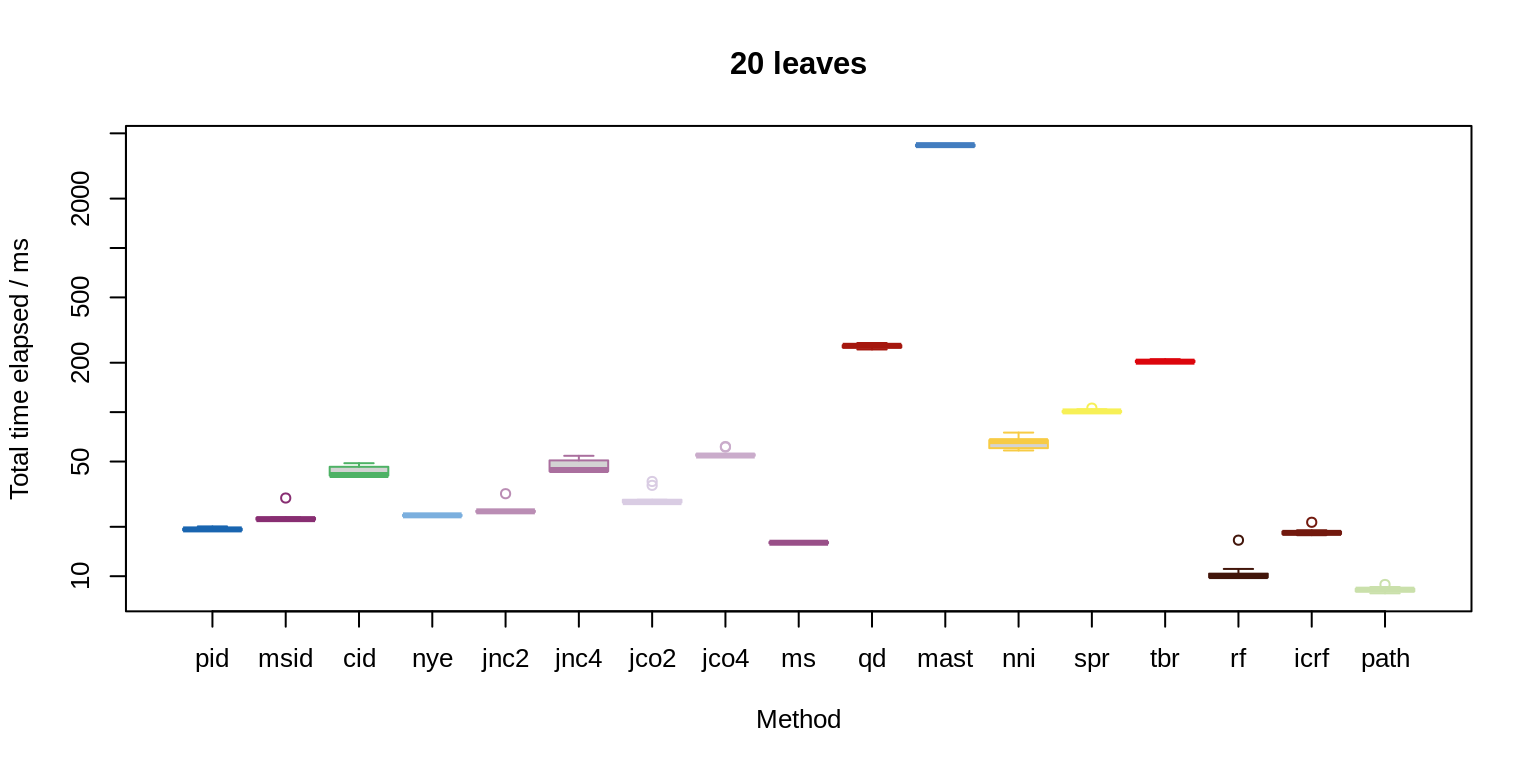
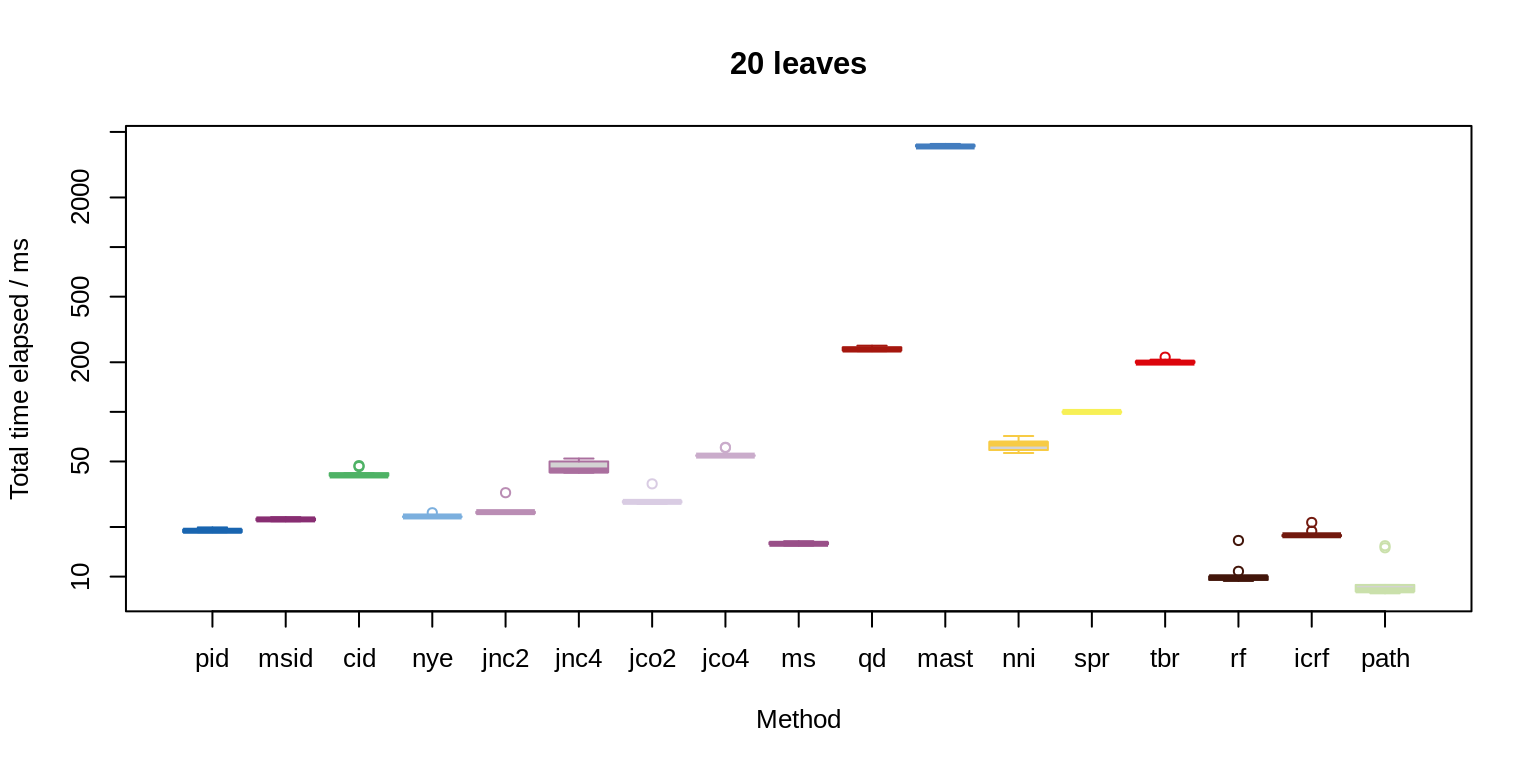
Built site for TreeDistData: 1.0.0@f3f8f6a

diff --git a/index.html b/index.html
@@ -13,8 +13,8 @@
 <!-- clipboard.js --><script src="https://cdnjs.cloudflare.com/ajax/libs/clipboard.js/2.0.6/clipboard.min.js" integrity="sha256-inc5kl9MA1hkeYUt+EC3BhlIgyp/2jDIyBLS6k3UxPI=" crossorigin="anonymous"></script><!-- headroom.js --><script src="https://cdnjs.cloudflare.com/ajax/libs/headroom/0.11.0/headroom.min.js" integrity="sha256-AsUX4SJE1+yuDu5+mAVzJbuYNPHj/WroHuZ8Ir/CkE0=" crossorigin="anonymous"></script><script src="https://cdnjs.cloudflare.com/ajax/libs/headroom/0.11.0/jQuery.headroom.min.js" integrity="sha256-ZX/yNShbjqsohH1k95liqY9Gd8uOiE1S4vZc+9KQ1K4=" crossorigin="anonymous"></script><!-- pkgdown --><link href="pkgdown.css" rel="stylesheet">
 <script src="pkgdown.js"></script><meta property="og:title" content="Analysis of Phylogenetic Tree Distance Measures">
 <meta property="og:description" content="Data used to perform analyses of tree distance measures in unrooted
-  phylogenetic trees, underlying tables and figures in Smith (202X)
-  &lt;doi:10.1093/bioinformatics/xxxxx&gt;.">
+  phylogenetic trees, underlying tables and figures in Smith (2020)
+  &lt;doi:10.1093/bioinformatics/btaa614&gt;.">
 <!-- mathjax --><script src="https://cdnjs.cloudflare.com/ajax/libs/mathjax/2.7.5/MathJax.js" integrity="sha256-nvJJv9wWKEm88qvoQl9ekL2J+k/RWIsaSScxxlsrv8k=" crossorigin="anonymous"></script><script src="https://cdnjs.cloudflare.com/ajax/libs/mathjax/2.7.5/config/TeX-AMS-MML_HTMLorMML.js" integrity="sha256-84DKXVJXs0/F8OTMzX4UR909+jtl4G7SPypPavF+GfA=" crossorigin="anonymous"></script><!--[if lt IE 9]>
 <script src="https://oss.maxcdn.com/html5shiv/3.7.3/html5shiv.min.js"></script>
 <script src="https://oss.maxcdn.com/respond/1.4.2/respond.min.js"></script>
@@ -117,13 +117,13 @@
 <div class="page-header"><h1 class="hasAnchor">
 <a href="#treedistdata" class="anchor"></a>TreeDistData</h1></div>
 
-<p>‘<a href="https://ms609.github.io/TreeDistData/">TreeDistData</a>’ is an R package intended to accompany the ‘<a href="https://ms609.github.io/TreeDist/">TreeDist</a>’ package. It contains the functions and scripts used to compare the performance of tree distance measures in Smith (in review).</p>
-<p>“<a href="https://ms609.github.io/TreeDistData/articles/">Articles</a>” lists vignettes detailing the output of analyses corresponding to the stated sections of Smith (in review). Each of these pages includes a link to the R source code, which can be used to reproduce the analytical results.</p>
+<p>‘<a href="https://ms609.github.io/TreeDistData/">TreeDistData</a>’ is an R package intended to accompany the ‘<a href="https://ms609.github.io/TreeDist/">TreeDist</a>’ package. It contains the functions and scripts used to compare the performance of tree distance measures in Smith (2020).</p>
+<p>“<a href="https://ms609.github.io/TreeDistData/articles/">Articles</a>” lists vignettes detailing the output of analyses corresponding to the stated sections of Smith (2020). Each of these pages includes a link to the R source code, which can be used to reproduce the analytical results.</p>
 <p>“<a href="https://ms609.github.io/TreeDistData/reference/">Reference</a>” lists convenience functions, which facilitate calls to ‘TreeDist’, and data objects that store the results of lengthy analyses. The code used to generate these data objects is available in the <a href="https://github.com/ms609/TreeDistData/tree/master/data-raw"><code>data-raw</code></a> directory.</p>
 <div id="references" class="section level2">
 <h2 class="hasAnchor">
 <a href="#references" class="anchor"></a>References</h2>
-<p>Smith, M.R. (2020). Information theoretic Generalized Robinson-Foulds metrics for comparing phylogenetic trees. Bioinformatics, in production.</p>
+<p>Smith, M.R. (2020). <a href="10.1093/bioinformatics/btaa614">Information theoretic Generalized Robinson-Foulds metrics for comparing phylogenetic trees</a>. <em>Bioinformatics</em>, in production.</p>
 </div>
 </div>
   </div>

diff --git a/articles/07-bullseye.html b/articles/07-bullseye.html
@@ -135,8 +135,8 @@
 <div id="tabulation" class="section level2">
 <h2 class="hasAnchor">
 <a href="#tabulation" class="anchor"></a>Tabulation</h2>
-<div id="htmlwidget-bfc3be23c74719aa7364" style="width:100%;height:auto;" class="datatables html-widget"></div>
-<script type="application/json" data-for="htmlwidget-bfc3be23c74719aa7364">{"x":{"filter":"none","data":[["Phylog. Info. Dist","Match. Split Info Dist","Clust. Info. Dist.","Quartet","Nye <i>et al.<\/i>","JRF (k = 2, no conflict)","JRF (k = 4, no conflict)","JRF (k = 2, conflict ok)","JRF (k = 4, conflict ok)","Match. Split Dist.","MAST size","MAST info","NNI (lwr bnd)","NNI (upr bnd)","SPR (approx.)","TBR (lwr bnd)","TBR (upr bnd)","Robinson-Foulds","Info. Corr. RF","Path"],["651","639","650","626","644","642","629","631","635","636","498","498","410","444","406","312","398","410","638","633"],["937","902","941","809","961","965","929","955","931","777","622","622","781","802","613","604","693","781","785","704"],["0.708","0.686","0.714","0.619","0.704","0.711","0.671","0.699","0.669","0.665","0.515","0.515","0.595","0.583","0.329","0.439","0.339","0.595","0.643","0.621"],["0.935","0.913","0.935","0.861","0.936","0.943","0.925","0.937","0.927","0.785","0.793","0.793","0.903","0.902","0.721","0.837","0.84","0.903","0.746","0.6"]],"container":"<table class=\"display\">\n  <thead>\n    <tr>\n      <th>Method<\/th>\n      <th>Subsampling: Success rate (50 leaves)<\/th>\n      <th>Miscoding: Success rate (50 leaves)<\/th>\n      <th>Subsampling: Accuracy (ρ)<\/th>\n      <th>Miscoding: Accuracy (ρ)<\/th>\n    <\/tr>\n  <\/thead>\n<\/table>","options":{"paging":false,"searching":false,"info":false,"order":[],"autoWidth":false,"orderClasses":false}},"evals":[],"jsHooks":[]}</script>
+<div id="htmlwidget-e17e2f8c51ed56d50d5d" style="width:100%;height:auto;" class="datatables html-widget"></div>
+<script type="application/json" data-for="htmlwidget-e17e2f8c51ed56d50d5d">{"x":{"filter":"none","data":[["Phylog. Info. Dist","Match. Split Info Dist","Clust. Info. Dist.","Quartet","Nye <i>et al.<\/i>","JRF (k = 2, no conflict)","JRF (k = 4, no conflict)","JRF (k = 2, conflict ok)","JRF (k = 4, conflict ok)","Match. Split Dist.","MAST size","MAST info","NNI (lwr bnd)","NNI (upr bnd)","SPR (approx.)","TBR (lwr bnd)","TBR (upr bnd)","Robinson-Foulds","Info. Corr. RF","Path"],["651","639","650","626","644","642","629","631","635","636","498","498","410","444","406","312","398","410","638","633"],["937","902","941","809","961","965","929","955","931","777","622","622","781","802","613","604","693","781","785","704"],["0.708","0.686","0.714","0.619","0.704","0.711","0.671","0.699","0.669","0.665","0.515","0.515","0.595","0.583","0.329","0.439","0.339","0.595","0.643","0.621"],["0.935","0.913","0.935","0.861","0.936","0.943","0.925","0.937","0.927","0.785","0.793","0.793","0.903","0.902","0.721","0.837","0.84","0.903","0.746","0.6"]],"container":"<table class=\"display\">\n  <thead>\n    <tr>\n      <th>Method<\/th>\n      <th>Subsampling: Success rate (50 leaves)<\/th>\n      <th>Miscoding: Success rate (50 leaves)<\/th>\n      <th>Subsampling: Accuracy (ρ)<\/th>\n      <th>Miscoding: Accuracy (ρ)<\/th>\n    <\/tr>\n  <\/thead>\n<\/table>","options":{"paging":false,"searching":false,"info":false,"order":[],"autoWidth":false,"orderClasses":false}},"evals":[],"jsHooks":[]}</script>
 </div>
   </div>
 

diff --git a/articles/06-lin-cluster-recovery.html b/articles/06-lin-cluster-recovery.html
@@ -132,8 +132,8 @@
 <h2 class="hasAnchor">
 <a href="#rankings" class="anchor"></a>Rankings</h2>
 <p>Rankings were calculated for each value of <em>k</em> and each clustering method, using lowest value in ties. The table reports the average ranking for all values of <em>k</em> and all clustering methods for each test.</p>
-<div id="htmlwidget-849e23b81cb22f57f50b" style="width:100%;height:auto;" class="datatables html-widget"></div>
-<script type="application/json" data-for="htmlwidget-849e23b81cb22f57f50b">{"x":{"filter":"none","data":[["Nye <i>et al.<\/i>","JRF (k = 2, conflict ok)","Clust. Info. Dist.","Match. Split Info Dist","JRF (k = 4, conflict ok)","JRF (k = 2, no conflict)","Match. Split Dist.","JRF (k = 4, no conflict)","Quartet","Phylog. Info. Dist","TBR (upr bnd)","SPR (approx.)","NNI (upr bnd)","NNI (lwr bnd)","Robinson-Foulds","TBR (lwr bnd)","Path","Info. Corr. RF"],["4.66","5.4","4.46","4.62","8.08","7.36","7.26","9.52","5.14","6.5","11.58","12.18","13.38","13.84","13.84","12.7","14.14","16.34"],["4.15","5","7.1","5.45","6.75","11.475","3.825","10.825","9.55","13.75","11.4","9.225","11.15","10.975","10.975","11.475","11.9","16.025"],["3.76","2.6","5.96","9.46","4.7","2.76","14.84","5.96","12.38","7.1","10.72","13","10.82","11.24","11.24","12.74","16.14","15.58"],["4.19","4.33","5.84","6.51","6.51","7.2","8.64","8.77","9.02","9.12","11.23","11.47","11.78","12.02","12.02","12.3","14.06","15.98"]],"container":"<table class=\"display\">\n  <thead>\n    <tr>\n      <th>Method<\/th>\n      <th>Test one<\/th>\n      <th>Test two<\/th>\n      <th>Test three<\/th>\n      <th>Mean rank<\/th>\n    <\/tr>\n  <\/thead>\n<\/table>","options":{"paging":false,"searching":false,"info":false,"order":[],"autoWidth":false,"orderClasses":false}},"evals":[],"jsHooks":[]}</script>
+<div id="htmlwidget-cce8fdbab27afa460dda" style="width:100%;height:auto;" class="datatables html-widget"></div>
+<script type="application/json" data-for="htmlwidget-cce8fdbab27afa460dda">{"x":{"filter":"none","data":[["Nye <i>et al.<\/i>","JRF (k = 2, conflict ok)","Clust. Info. Dist.","Match. Split Info Dist","JRF (k = 4, conflict ok)","JRF (k = 2, no conflict)","Match. Split Dist.","JRF (k = 4, no conflict)","Quartet","Phylog. Info. Dist","TBR (upr bnd)","SPR (approx.)","NNI (upr bnd)","NNI (lwr bnd)","Robinson-Foulds","TBR (lwr bnd)","Path","Info. Corr. RF"],["4.66","5.4","4.46","4.62","8.08","7.36","7.26","9.52","5.14","6.5","11.58","12.18","13.38","13.84","13.84","12.7","14.14","16.34"],["4.15","5","7.1","5.45","6.75","11.475","3.825","10.825","9.55","13.75","11.4","9.225","11.15","10.975","10.975","11.475","11.9","16.025"],["3.76","2.6","5.96","9.46","4.7","2.76","14.84","5.96","12.38","7.1","10.72","13","10.82","11.24","11.24","12.74","16.14","15.58"],["4.19","4.33","5.84","6.51","6.51","7.2","8.64","8.77","9.02","9.12","11.23","11.47","11.78","12.02","12.02","12.3","14.06","15.98"]],"container":"<table class=\"display\">\n  <thead>\n    <tr>\n      <th>Method<\/th>\n      <th>Test one<\/th>\n      <th>Test two<\/th>\n      <th>Test three<\/th>\n      <th>Mean rank<\/th>\n    <\/tr>\n  <\/thead>\n<\/table>","options":{"paging":false,"searching":false,"info":false,"order":[],"autoWidth":false,"orderClasses":false}},"evals":[],"jsHooks":[]}</script>
 </div>
   </div>
 

diff --git a/articles/05-tree-shape.html b/articles/05-tree-shape.html
@@ -130,8 +130,8 @@
 <p><img src="05-tree-shape_files/figure-html/tree-shapes-1.png" width="576" style="display: block; margin: auto;"></p>
 <p>To evaluate the extent to which trees are ranked as less (or more) different simply because they exhibit the same shape, I evaluated the extent to which tree distance could be predicted based only on knowledge of the topology of the two input trees.</p>
 <p><img src="05-tree-shape_files/figure-html/analyse-1.png" width="700"></p>
-<div id="htmlwidget-13334e13a76ffbab8ba6" style="width:100%;height:auto;" class="datatables html-widget"></div>
-<script type="application/json" data-for="htmlwidget-13334e13a76ffbab8ba6">{"x":{"filter":"none","data":[["Phylog. Info. Dist","Match. Split Info Dist","Clust. Info. Dist.","Quartet","Nye <i>et al.<\/i>","JRF (k = 2, no conflict)","JRF (k = 4, no conflict)","JRF (k = 2, conflict ok)","JRF (k = 4, conflict ok)","Match. Split Dist.","MAST size","MAST info","NNI (lwr bnd)","NNI (ub tight)","NNI (upr bnd)","SPR (approx.)","TBR (lwr bnd)","TBR (upr bnd)","Robinson-Foulds","Info. Corr. RF","Path"],["0.0095","0.013","0.01","1e-04","0.0136","0.0097","0.0044","0.0037","0.0021","0.0661","0.0075","0.0078","0.0192","0.0156","0.0265","0.0099","0.0089","0.0011","0.0192","0.2484","0.4852"],["0.0093","0.0128","0.0098","-1e-04","0.0134","0.0095","0.0042","0.0035","0.0019","0.0659","0.0074","0.0076","0.019","0.0154","0.0263","0.0098","0.0087","9e-04","0.019","0.2483","0.4851"]],"container":"<table class=\"display\">\n  <thead>\n    <tr>\n      <th>Method<\/th>\n      <th>r²<\/th>\n      <th>adjusted r²<\/th>\n    <\/tr>\n  <\/thead>\n<\/table>","options":{"paging":false,"searching":false,"info":false,"order":[],"autoWidth":false,"orderClasses":false}},"evals":[],"jsHooks":[]}</script>
+<div id="htmlwidget-85afeaa0031e507224db" style="width:100%;height:auto;" class="datatables html-widget"></div>
+<script type="application/json" data-for="htmlwidget-85afeaa0031e507224db">{"x":{"filter":"none","data":[["Phylog. Info. Dist","Match. Split Info Dist","Clust. Info. Dist.","Quartet","Nye <i>et al.<\/i>","JRF (k = 2, no conflict)","JRF (k = 4, no conflict)","JRF (k = 2, conflict ok)","JRF (k = 4, conflict ok)","Match. Split Dist.","MAST size","MAST info","NNI (lwr bnd)","NNI (ub tight)","NNI (upr bnd)","SPR (approx.)","TBR (lwr bnd)","TBR (upr bnd)","Robinson-Foulds","Info. Corr. RF","Path"],["0.0095","0.013","0.01","1e-04","0.0136","0.0097","0.0044","0.0037","0.0021","0.0661","0.0075","0.0078","0.0192","0.0156","0.0265","0.0099","0.0089","0.0011","0.0192","0.2484","0.4852"],["0.0093","0.0128","0.0098","-1e-04","0.0134","0.0095","0.0042","0.0035","0.0019","0.0659","0.0074","0.0076","0.019","0.0154","0.0263","0.0098","0.0087","9e-04","0.019","0.2483","0.4851"]],"container":"<table class=\"display\">\n  <thead>\n    <tr>\n      <th>Method<\/th>\n      <th>r²<\/th>\n      <th>adjusted r²<\/th>\n    <\/tr>\n  <\/thead>\n<\/table>","options":{"paging":false,"searching":false,"info":false,"order":[],"autoWidth":false,"orderClasses":false}},"evals":[],"jsHooks":[]}</script>
 </div>
 
   <div class="col-md-3 hidden-xs hidden-sm" id="pkgdown-sidebar">

diff --git a/articles/10-timing.html b/articles/10-timing.html
@@ -139,14 +139,14 @@ The values reported in Smith <span class="citation">(2020)</span> were calculate
 <h2 class="hasAnchor">
 <a href="#tabulation" class="anchor"></a>Tabulation</h2>
 <div id="htmlwidget-645c4a0173fa826ea5fd" style="width:100%;height:auto;" class="datatables html-widget"></div>
-<script type="application/json" data-for="htmlwidget-645c4a0173fa826ea5fd">{"x":{"filter":"none","caption":"<caption>Mean time per comparison / µs<\/caption>","data":[["Path","Robinson-Foulds","Match. Split Dist.","Info. Corr. RF","Phylog. Info. Dist","Match. Split Info Dist","Nye <i>et al.<\/i>","JRF (k = 2, no conflict)","JRF (k = 2, conflict ok)","Clust. Info. Dist.","JRF (k = 4, no conflict)","JRF (k = 4, conflict ok)","NNI (approx.)","SPR (approx.)","TBR (approx.)","Quartet","MAST size"],["8.4"," 11"," 16"," 19"," 20"," 23"," 24"," 26"," 30"," 44"," 47"," 56"," 66","100","210","260","4300"],[" 18"," 15"," 45"," 37"," 80","140","130","110","170","260","530","830"," 82","1100","380","460","20000"]],"container":"<table class=\"display\">\n  <thead>\n    <tr>\n      <th>Method<\/th>\n      <th>20 leaves<\/th>\n      <th>50 leaves<\/th>\n    <\/tr>\n  <\/thead>\n<\/table>","options":{"paging":false,"searching":false,"info":false,"order":[],"autoWidth":false,"orderClasses":false}},"evals":[],"jsHooks":[]}</script>
+<script type="application/json" data-for="htmlwidget-645c4a0173fa826ea5fd">{"x":{"filter":"none","caption":"<caption>Mean time per comparison / µs<\/caption>","data":[["Path","Robinson-Foulds","Match. Split Dist.","Info. Corr. RF","Phylog. Info. Dist","Match. Split Info Dist","Nye <i>et al.<\/i>","JRF (k = 2, no conflict)","JRF (k = 2, conflict ok)","Clust. Info. Dist.","JRF (k = 4, no conflict)","JRF (k = 4, conflict ok)","NNI (approx.)","SPR (approx.)","TBR (approx.)","Quartet","MAST size"],["9.7"," 11"," 16"," 18"," 19"," 22"," 23"," 26"," 29"," 43"," 47"," 56"," 64","100","200","240","4200"],[" 17"," 15"," 44"," 36"," 80","140","130","110","170","260","530","830"," 80","1100","370","440","20000"]],"container":"<table class=\"display\">\n  <thead>\n    <tr>\n      <th>Method<\/th>\n      <th>20 leaves<\/th>\n      <th>50 leaves<\/th>\n    <\/tr>\n  <\/thead>\n<\/table>","options":{"paging":false,"searching":false,"info":false,"order":[],"autoWidth":false,"orderClasses":false}},"evals":[],"jsHooks":[]}</script>
 </div>
 <div id="reference" class="section level2 unnumbered">
 <h2 class="hasAnchor">
 <a href="#reference" class="anchor"></a>Reference</h2>
 <div id="refs" class="references">
 <div id="ref-Smith2020">
-<p>Smith, M. R. (2020). Information theoretic Generalized Robinson-Foulds metrics for comparing phylogenetic trees. <em>Bioinformatics</em>, in production.</p>
+<p>Smith, M. R. (2020). Information theoretic Generalized Robinson-Foulds metrics for comparing phylogenetic trees. <em>Bioinformatics</em>, in production. doi: <a href="https://doi.org/10.1093/bioinformatics/btaa614">10.1093/bioinformatics/btaa614</a></p>
 </div>
 </div>
 </div>

diff --git a/articles/01-length-of-move.html b/articles/01-length-of-move.html
@@ -136,8 +136,8 @@
 <p><img src="01-length-of-move_files/figure-html/unnamed-chunk-2-1.png" width="691.2"></p>
 <p>The <em>move length</em> between any pair of these trees is defined as the number of nodes that must be traversed to travel from the position of the eleventh leaf in one tree to its position in the second. I define a <em>mis-ordering</em> as a case where the distance between a pair of trees is not strictly larger than the distance between every tree pair with a shorter move length, or a case where the distance is not strictly smaller than that between every tree pair with a greater move length.</p>
 <p>We would like a metric to display a monotonic increase, such that all tree pairs with <em>n</em> edges between the added leaves are further apart than any tree pair with <em>n</em> − 1 edges between the added leaves.</p>
-<div id="htmlwidget-d60e0b7823e7da04be62" style="width:100%;height:auto;" class="datatables html-widget"></div>
-<script type="application/json" data-for="htmlwidget-d60e0b7823e7da04be62">{"x":{"filter":"none","data":[["Clust. Info. Dist.","Phylog. Info. Dist","Nye <i>et al.<\/i>","JRF (k = 2, conflict ok)","JRF (k = 4, conflict ok)","JRF (k = 2, no conflict)","JRF (k = 4, no conflict)","Robinson-Foulds","Info. Corr. RF","Path","Match. Split Info Dist","Match. Split Dist.","Quartet","MAST size","MAST info","NNI (upr bnd)","NNI (lwr bnd)","SPR (approx.)","TBR (lwr bnd)","TBR (upr bnd)"],[8,84,24,0,0,0,0,0,0,126,0,354,94,480,480,0,0,480,480,480]],"container":"<table class=\"display\">\n  <thead>\n    <tr>\n      <th>Method<\/th>\n      <th>Mis-orderings<\/th>\n    <\/tr>\n  <\/thead>\n<\/table>","options":{"paging":false,"searching":false,"info":false,"order":[],"autoWidth":false,"orderClasses":false}},"evals":[],"jsHooks":[]}</script>
+<div id="htmlwidget-6b0fd4b9d7aee88c329e" style="width:100%;height:auto;" class="datatables html-widget"></div>
+<script type="application/json" data-for="htmlwidget-6b0fd4b9d7aee88c329e">{"x":{"filter":"none","data":[["Clust. Info. Dist.","Phylog. Info. Dist","Nye <i>et al.<\/i>","JRF (k = 2, conflict ok)","JRF (k = 4, conflict ok)","JRF (k = 2, no conflict)","JRF (k = 4, no conflict)","Robinson-Foulds","Info. Corr. RF","Path","Match. Split Info Dist","Match. Split Dist.","Quartet","MAST size","MAST info","NNI (upr bnd)","NNI (lwr bnd)","SPR (approx.)","TBR (lwr bnd)","TBR (upr bnd)"],[8,84,24,0,0,0,0,0,0,126,0,354,94,480,480,0,0,480,480,480]],"container":"<table class=\"display\">\n  <thead>\n    <tr>\n      <th>Method<\/th>\n      <th>Mis-orderings<\/th>\n    <\/tr>\n  <\/thead>\n<\/table>","options":{"paging":false,"searching":false,"info":false,"order":[],"autoWidth":false,"orderClasses":false}},"evals":[],"jsHooks":[]}</script>
 </div>
   </div>
 

diff --git a/articles/04-saturation-and-sensitivity.html b/articles/04-saturation-and-sensitivity.html
@@ -127,8 +127,8 @@
     
     
 <p>Number of 100 000 trees at maximum distance from a pectinate 11-leaf reference tree:</p>
-<div id="htmlwidget-12ecd8613b5f52d0d78c" style="width:100%;height:auto;" class="datatables html-widget"></div>
-<script type="application/json" data-for="htmlwidget-12ecd8613b5f52d0d78c">{"x":{"filter":"none","data":[["Phylog. Info. Dist","Match. Split Info Dist","Clust. Info. Dist.","Quartet","Nye <i>et al.<\/i>","JRF (k = 2, no conflict)","JRF (k = 4, no conflict)","JRF (k = 2, conflict ok)","JRF (k = 4, conflict ok)","Match. Split Dist.","MAST size","MAST info","NNI (lwr bnd)","NNI (ub tight)","NNI (upr bnd)","SPR (approx.)","TBR (lwr bnd)","TBR (upr bnd)","Robinson-Foulds","Info. Corr. RF","Path","MAF info"],["36","1","1","1","2","36","36","1","2","11","6154","6154","86336","86336","86336","2388","7474","7474","86336","13044","1","2"],["26478","24167","28939","200","4381","19221","20488","27790","28781","28","7","7","6","12","16","5","4","7","6","208","302","20"]],"container":"<table class=\"display\">\n  <thead>\n    <tr>\n      <th>Method<\/th>\n      <th>Trees with maximum score<\/th>\n      <th>Unique distances<\/th>\n    <\/tr>\n  <\/thead>\n<\/table>","options":{"paging":false,"searching":false,"info":false,"order":[],"autoWidth":false,"orderClasses":false}},"evals":[],"jsHooks":[]}</script>
+<div id="htmlwidget-bc9933defdb94b16dd66" style="width:100%;height:auto;" class="datatables html-widget"></div>
+<script type="application/json" data-for="htmlwidget-bc9933defdb94b16dd66">{"x":{"filter":"none","data":[["Phylog. Info. Dist","Match. Split Info Dist","Clust. Info. Dist.","Quartet","Nye <i>et al.<\/i>","JRF (k = 2, no conflict)","JRF (k = 4, no conflict)","JRF (k = 2, conflict ok)","JRF (k = 4, conflict ok)","Match. Split Dist.","MAST size","MAST info","NNI (lwr bnd)","NNI (ub tight)","NNI (upr bnd)","SPR (approx.)","TBR (lwr bnd)","TBR (upr bnd)","Robinson-Foulds","Info. Corr. RF","Path","MAF info"],["36","1","1","1","2","36","36","1","2","11","6154","6154","86336","86336","86336","2388","7474","7474","86336","13044","1","2"],["26478","24167","28939","200","4381","19221","20488","27790","28781","28","7","7","6","12","16","5","4","7","6","208","302","20"]],"container":"<table class=\"display\">\n  <thead>\n    <tr>\n      <th>Method<\/th>\n      <th>Trees with maximum score<\/th>\n      <th>Unique distances<\/th>\n    <\/tr>\n  <\/thead>\n<\/table>","options":{"paging":false,"searching":false,"info":false,"order":[],"autoWidth":false,"orderClasses":false}},"evals":[],"jsHooks":[]}</script>
 </div>
 
   <div class="col-md-3 hidden-xs hidden-sm" id="pkgdown-sidebar">

diff --git a/articles/08-spr-walking.html b/articles/08-spr-walking.html
@@ -134,8 +134,8 @@
 <div id="tabulation" class="section level2">
 <h2 class="hasAnchor">
 <a href="#tabulation" class="anchor"></a>Tabulation</h2>
-<div id="htmlwidget-398bbc07f42ac272b871" style="width:100%;height:auto;" class="datatables html-widget"></div>
-<script type="application/json" data-for="htmlwidget-398bbc07f42ac272b871">{"x":{"filter":"none","data":[["TBR (lwr bnd)","Clust. Info. Dist.","NNI (ub tight)","TBR (upr bnd)","Quartet","Phylog. Info. Dist","MAST size","MAST info","Nye <i>et al.<\/i>","Match. Split Info Dist","JRF (k = 2, conflict ok)","JRF (k = 2, no conflict)","JRF (k = 4, conflict ok)","JRF (k = 4, no conflict)","SPR (approx.)","Match. Split Dist.","NNI (lwr bnd)","Robinson-Foulds","NNI (upr bnd)","Path","Info. Corr. RF"],["0.848","0.845","0.842","0.827","0.819","0.8","0.798","0.798","0.795","0.783","0.781","0.774","0.747","0.732","0.731","0.704","0.673","0.673","0.673","0.567","0.495"]],"container":"<table class=\"display\">\n  <thead>\n    <tr>\n      <th>Method<\/th>\n      <th>τ<sub>B<\/sub><\/th>\n    <\/tr>\n  <\/thead>\n<\/table>","options":{"paging":false,"searching":false,"info":false,"order":[],"autoWidth":false,"orderClasses":false}},"evals":[],"jsHooks":[]}</script>
+<div id="htmlwidget-85beca575ca37191a194" style="width:100%;height:auto;" class="datatables html-widget"></div>
+<script type="application/json" data-for="htmlwidget-85beca575ca37191a194">{"x":{"filter":"none","data":[["TBR (lwr bnd)","Clust. Info. Dist.","NNI (ub tight)","TBR (upr bnd)","Quartet","Phylog. Info. Dist","MAST size","MAST info","Nye <i>et al.<\/i>","Match. Split Info Dist","JRF (k = 2, conflict ok)","JRF (k = 2, no conflict)","JRF (k = 4, conflict ok)","JRF (k = 4, no conflict)","SPR (approx.)","Match. Split Dist.","NNI (lwr bnd)","Robinson-Foulds","NNI (upr bnd)","Path","Info. Corr. RF"],["0.848","0.845","0.842","0.827","0.819","0.8","0.798","0.798","0.795","0.783","0.781","0.774","0.747","0.732","0.731","0.704","0.673","0.673","0.673","0.567","0.495"]],"container":"<table class=\"display\">\n  <thead>\n    <tr>\n      <th>Method<\/th>\n      <th>τ<sub>B<\/sub><\/th>\n    <\/tr>\n  <\/thead>\n<\/table>","options":{"paging":false,"searching":false,"info":false,"order":[],"autoWidth":false,"orderClasses":false}},"evals":[],"jsHooks":[]}</script>
 </div>
   </div>
 

diff --git a/articles/09-expected-similarity.html b/articles/09-expected-similarity.html
@@ -139,8 +139,8 @@
 <h2 class="hasAnchor">
 <a href="#ranges" class="anchor"></a>Ranges</h2>
 <p>Average range of distance between random trees with 20–200 leaves, expressed as percentages of the median.</p>
-<div id="htmlwidget-6a80c970ee1583896753" style="width:100%;height:auto;" class="datatables html-widget"></div>
-<script type="application/json" data-for="htmlwidget-6a80c970ee1583896753">{"x":{"filter":"none","data":[["MAST info","Path","MAST size","Match. Split Dist.","TBR (lwr bnd)","Info. Corr. RF","SPR (approx.)","TBR (upr bnd)","Match. Split Info Dist","Nye <i>et al.<\/i>","Quartet","Clust. Info. Dist.","JRF (k = 2, conflict ok)","JRF (k = 2, no conflict)","Phylog. Info. Dist","JRF (k = 4, conflict ok)","JRF (k = 4, no conflict)","NNI (lwr bnd)","NNI (upr bnd)","Robinson-Foulds"],["14.1","10.6","8.5","5.9","3.6","3.5","3","2.6","2.1","1.9","1.7","1.6","1.2","1.2","1","0.6","0.5","0","0","0"]],"container":"<table class=\"display\">\n  <thead>\n    <tr>\n      <th>Method<\/th>\n      <th>Range (%)<\/th>\n    <\/tr>\n  <\/thead>\n<\/table>","options":{"paging":false,"searching":false,"info":false,"order":[],"autoWidth":false,"orderClasses":false}},"evals":[],"jsHooks":[]}</script>
+<div id="htmlwidget-8524f8dd9aa849343465" style="width:100%;height:auto;" class="datatables html-widget"></div>
+<script type="application/json" data-for="htmlwidget-8524f8dd9aa849343465">{"x":{"filter":"none","data":[["MAST info","Path","MAST size","Match. Split Dist.","TBR (lwr bnd)","Info. Corr. RF","SPR (approx.)","TBR (upr bnd)","Match. Split Info Dist","Nye <i>et al.<\/i>","Quartet","Clust. Info. Dist.","JRF (k = 2, conflict ok)","JRF (k = 2, no conflict)","Phylog. Info. Dist","JRF (k = 4, conflict ok)","JRF (k = 4, no conflict)","NNI (lwr bnd)","NNI (upr bnd)","Robinson-Foulds"],["14.1","10.6","8.5","5.9","3.6","3.5","3","2.6","2.1","1.9","1.7","1.6","1.2","1.2","1","0.6","0.5","0","0","0"]],"container":"<table class=\"display\">\n  <thead>\n    <tr>\n      <th>Method<\/th>\n      <th>Range (%)<\/th>\n    <\/tr>\n  <\/thead>\n<\/table>","options":{"paging":false,"searching":false,"info":false,"order":[],"autoWidth":false,"orderClasses":false}},"evals":[],"jsHooks":[]}</script>
 </div>
 <div id="references" class="section level2 unnumbered">
 <h2 class="hasAnchor">

diff --git a/articles/02-leaves-moved.html b/articles/02-leaves-moved.html
@@ -143,8 +143,8 @@
 <div id="results" class="section level2">
 <h2 class="hasAnchor">
 <a href="#results" class="anchor"></a>Results</h2>
-<div id="htmlwidget-f62c3ebb2257d2193793" style="width:100%;height:auto;" class="datatables html-widget"></div>
-<script type="application/json" data-for="htmlwidget-f62c3ebb2257d2193793">{"x":{"filter":"none","data":[["Phylog. Info. Dist","Match. Split Info Dist","Clust. Info. Dist.","Quartet","Nye <i>et al.<\/i>","JRF (k = 2, no conflict)","JRF (k = 4, no conflict)","JRF (k = 2, conflict ok)","JRF (k = 4, conflict ok)","Match. Split Dist.","MAST size","MAST info","NNI (lwr bnd)","NNI (ub tight)","NNI (upr bnd)","SPR (approx.)","TBR (lwr bnd)","TBR (upr bnd)","Robinson-Foulds","Info. Corr. RF","Path"],["0","23","0","17","24","7","17","0","0","34","17","17","289","289","289","289","289","289","289","146","0"]],"container":"<table class=\"display\">\n  <thead>\n    <tr>\n      <th>Method<\/th>\n      <th>Inconsistencies<\/th>\n    <\/tr>\n  <\/thead>\n<\/table>","options":{"paging":false,"searching":false,"info":false,"order":[],"autoWidth":false,"orderClasses":false}},"evals":[],"jsHooks":[]}</script>
+<div id="htmlwidget-31a2c98d164ca24d9b25" style="width:100%;height:auto;" class="datatables html-widget"></div>
+<script type="application/json" data-for="htmlwidget-31a2c98d164ca24d9b25">{"x":{"filter":"none","data":[["Phylog. Info. Dist","Match. Split Info Dist","Clust. Info. Dist.","Quartet","Nye <i>et al.<\/i>","JRF (k = 2, no conflict)","JRF (k = 4, no conflict)","JRF (k = 2, conflict ok)","JRF (k = 4, conflict ok)","Match. Split Dist.","MAST size","MAST info","NNI (lwr bnd)","NNI (ub tight)","NNI (upr bnd)","SPR (approx.)","TBR (lwr bnd)","TBR (upr bnd)","Robinson-Foulds","Info. Corr. RF","Path"],["0","23","0","17","24","7","17","0","0","34","17","17","289","289","289","289","289","289","289","146","0"]],"container":"<table class=\"display\">\n  <thead>\n    <tr>\n      <th>Method<\/th>\n      <th>Inconsistencies<\/th>\n    <\/tr>\n  <\/thead>\n<\/table>","options":{"paging":false,"searching":false,"info":false,"order":[],"autoWidth":false,"orderClasses":false}},"evals":[],"jsHooks":[]}</script>
 </div>
   </div>
 

diff --git a/authors.html b/authors.html
@@ -156,13 +156,12 @@
       <small class="dont-index">Source: <a href='https://github.com/ms609/TreeDistData/blob/master/inst/CITATION'><code>inst/CITATION</code></a></small>
     </div>
 
-    <p>Smith, M.R. (2020). Information theoretic Generalized Robinson-Foulds metrics
-for comparing phylogenetic trees Bioinformatics, in production. doi: 10.XXXX/XXXXX</p>
+    <p>Smith, M.R. (2020). Information theoretic Generalized Robinson-Foulds metrics for comparing phylogenetic trees. Bioinformatics, in production. doi: 10.1093/bioinformatics/btaa614</p>
     <pre>@Article{Smith2020,
-  title = {Information theoretic Generalized Robinson-Foulds metrics
-for comparing phylogenetic trees},
+  title = {Information theoretic Generalized Robinson-Foulds metrics for comparing phylogenetic trees},
   author = {Martin R. Smith},
   journal = {Bioinformatics},
+  doi = {10.1093/bioinformatics/btaa614},
   pages = {in production},
   year = {2020},
 }</pre>

diff --git a/reference/bullseye.html b/reference/bullseye.html
@@ -279,7 +279,9 @@ doi: <a href='https://doi.org/10.1098/rsbl.2018.0632'>10.1098/rsbl.2018.0632</a>
 .</p>
 <p>Smith MR (2020).
 &#8220;Information theoretic Generalized Robinson-Foulds metrics for comparing phylogenetic trees.&#8221;
-<em>Bioinformatics</em>, in production.</p>
+<em>Bioinformatics</em>, in production.
+doi: <a href='https://doi.org/10.1093/bioinformatics/btaa614'>10.1093/bioinformatics/btaa614</a>
+.</p>
 <p>Steel MA, Penny D (1993).
 &#8220;Distributions of tree comparison metrics—some new results.&#8221;
 <em>Systematic Biology</em>, <b>42</b>(2), 126--141.
